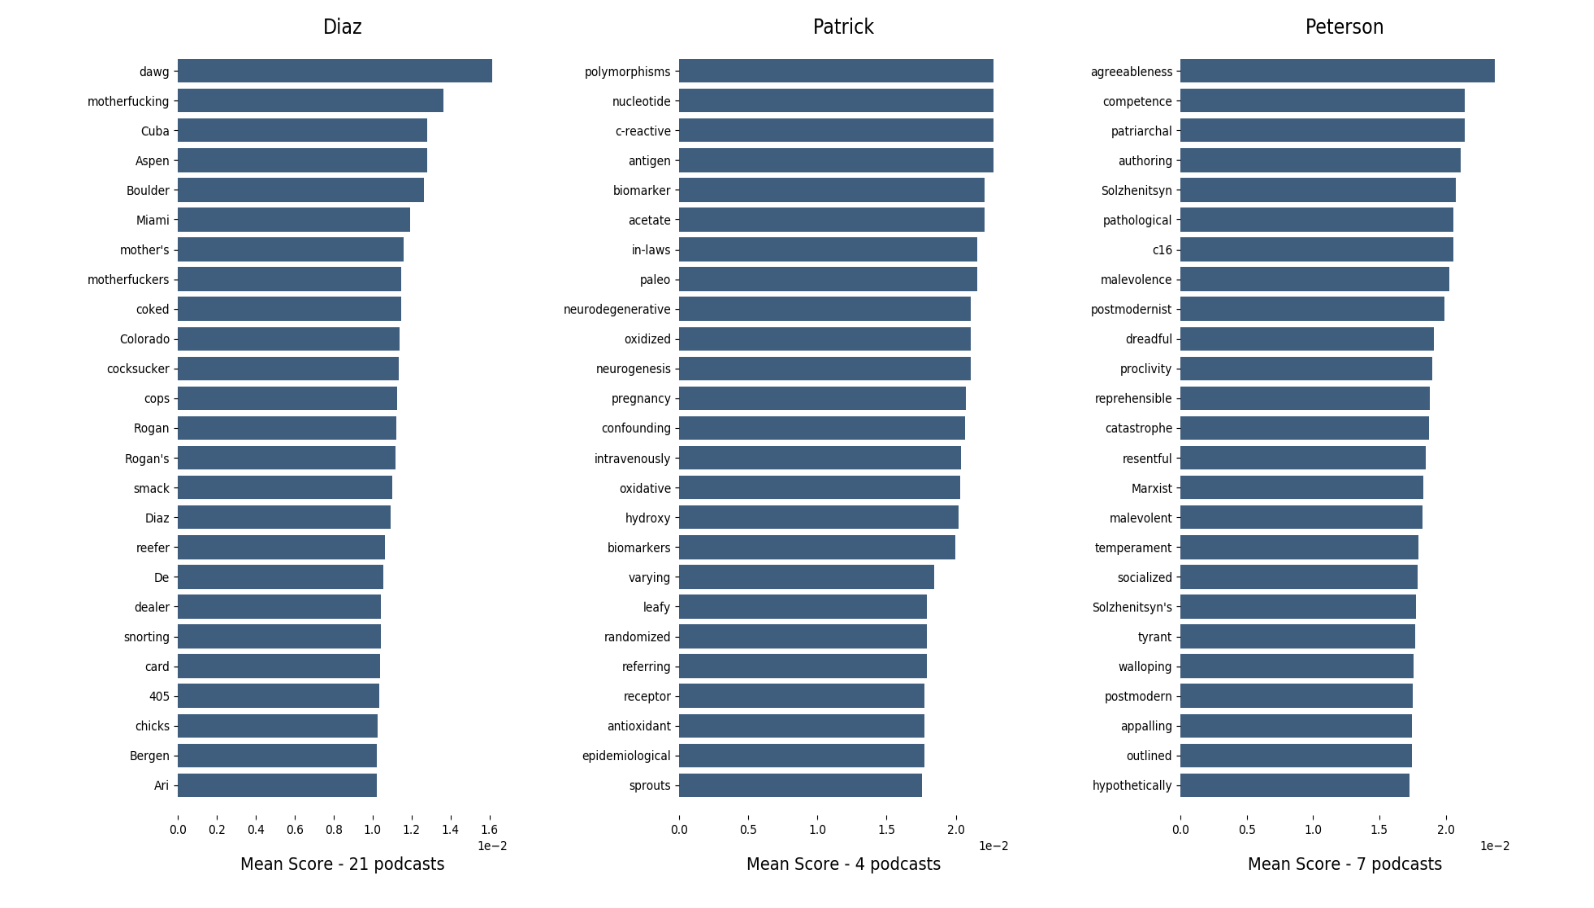
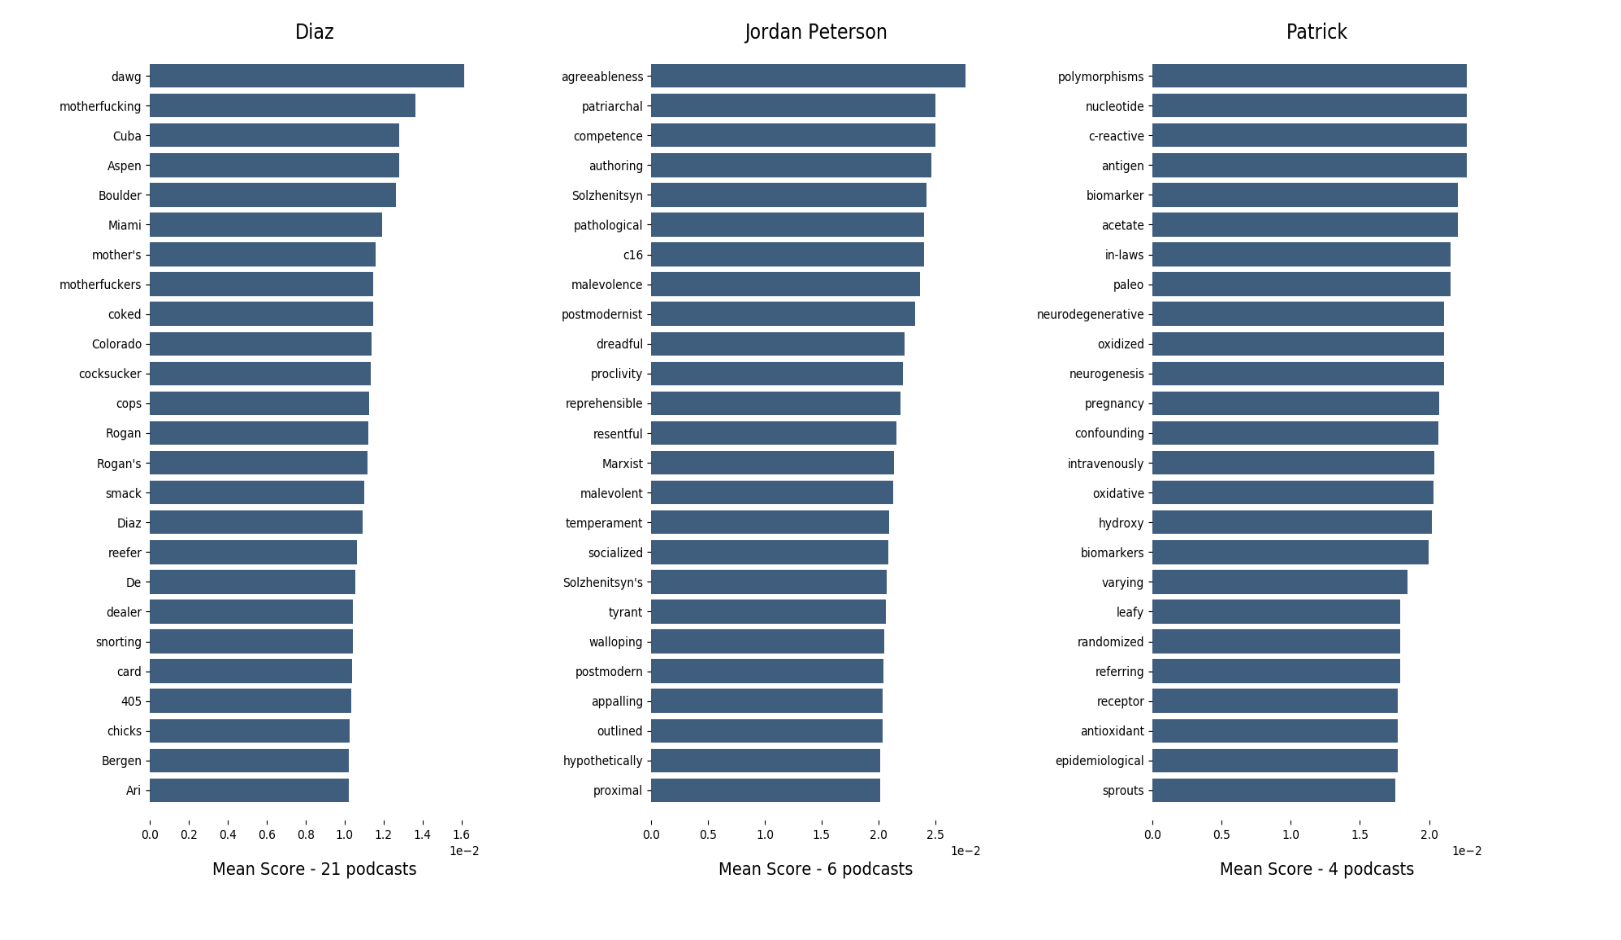
improving TF-IDF search

Changed region(s): [[0.3381, 0.0, 0.9529, 0.9559], [0.0307, 0.0, 0.3074, 0.9559], [0.5841, 0.8943, 0.6148, 0.9251]]

diff --git a/src/templates/home.html b/src/templates/home.html
@@ -34,7 +34,7 @@
     
     <br>
     <h3> Captions data </h3>
-    <p> Some podcasts have auto generated captions. Search here to find the captions for any podcast number:</p>
+    <p> Some podcasts have auto-generated captions. Search here to find the captions for any podcast number:</p>
     
     <form method="POST" action="/captions" autocomplete="off">
     {% csrf_token %}
@@ -54,7 +54,8 @@
     </form>
     <br>
     <br>
-    <p>This data was collected on July 13 2020, up until podcast 1506</p>
+    <p>This data was collected on July 13 2020, up until podcast 1506. <br>
+    Note that not all podcasts are present and some podcasts are devided into multiple parts.</p>
 
 </body>
 </html>

diff --git a/src/templates/captions.html b/src/templates/captions.html
@@ -4,7 +4,8 @@
 <head>
   <meta charset="utf-8">
   <title>Text</title>
-
+    {% load static %}
+      <link rel="stylesheet" type="text/css" href={% static "stylesheet.css" %}>
 </head>
 
 <body>

diff --git a/src/pages/tfidfAnalysis.py b/src/pages/tfidfAnalysis.py
@@ -36,9 +36,13 @@ def top_mean_feats(vecs, features, grp_ids=[], min_tfidf=0, top_n=25):
                       columns=['feature','tfidf'])
     return df
 
-def checkInName(names,word):
+def checkInName(item,word):
+    return all(elem in item.replace(',','').lower().split() for elem in word.lower().split())
+
+
+def getNameIds(names,word):
     all_names = list(names)
-    ids = [c for c,i in enumerate(all_names) if word.lower() in i.replace(',','').lower().split()]
+    ids = [c for c,i in enumerate(all_names) if checkInName(i,word)]
     return ids
     
 
@@ -49,7 +53,7 @@ def top_feats_by_class(names, vecs, y, features, min_tfidf=0, top_n=25):
     dfs = []
     labels = np.unique(y)
     for label in labels:
-        ids = np.array(checkInName(names,label))
+        ids = np.array(getNameIds(names,label))
         feats_df = top_mean_feats(vecs, features, ids, min_tfidf=min_tfidf, top_n=top_n)
         feats_df['label'] = label
         feats_df['num'] = len(ids)
